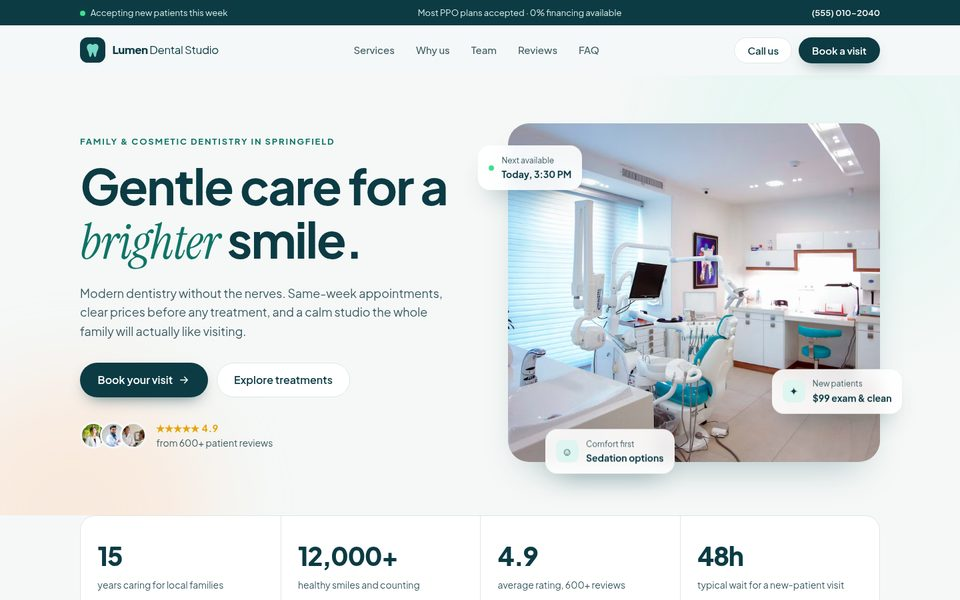
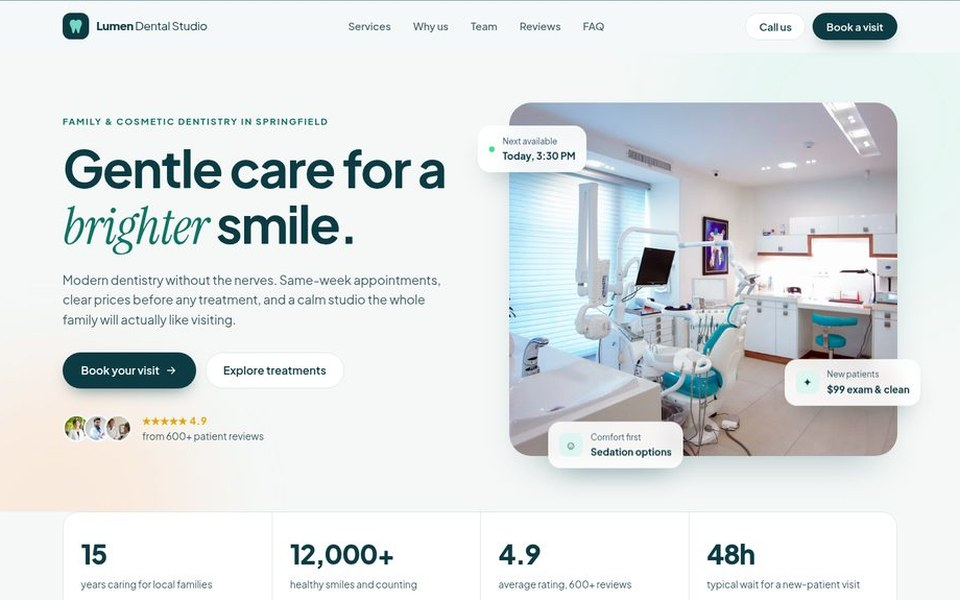
Work cards: crop announcement bars from thumbnails, drop stripe pattern behind images

diff --git a/index.html b/index.html
@@ -366,37 +366,37 @@
     <div class="fx-grid cols-3">
       <article class="reveal fx-box work-card">
         <a class="work-link" href="/work/clinic/" aria-label="Open the dental clinic concept website">
-          <div class="work-thumb"><img src="/work/thumbs/clinic.jpg" alt="Home page of Lumen Dental Studio, a concept dental clinic website" width="960" height="600" loading="lazy" decoding="async"></div>
+          <div class="work-thumb"><img src="/work/thumbs/clinic.jpg?v=2" alt="Home page of Lumen Dental Studio, a concept dental clinic website" width="960" height="600" loading="lazy" decoding="async"></div>
           <div class="work-meta"><span class="concept-tag">Concept</span><h3>Lumen Dental Studio</h3><p>Dental clinic site with online booking, treatments, team and patient reviews.</p><span class="work-cta">View live demo <span aria-hidden="true">→</span></span></div>
         </a>
       </article>
       <article class="reveal fx-box work-card">
         <a class="work-link" href="/work/restaurant/" aria-label="Open the restaurant concept website">
-          <div class="work-thumb"><img src="/work/thumbs/restaurant.jpg" alt="Home page of Ember and Vine, a concept restaurant website" width="960" height="600" loading="lazy" decoding="async"></div>
+          <div class="work-thumb"><img src="/work/thumbs/restaurant.jpg?v=2" alt="Home page of Ember and Vine, a concept restaurant website" width="960" height="600" loading="lazy" decoding="async"></div>
           <div class="work-meta"><span class="concept-tag">Concept</span><h3>Ember &amp; Vine</h3><p>Restaurant site with a tabbed menu, table reservations and a moody gallery.</p><span class="work-cta">View live demo <span aria-hidden="true">→</span></span></div>
         </a>
       </article>
       <article class="reveal fx-box work-card">
         <a class="work-link" href="/work/home-services/" aria-label="Open the home services concept website">
-          <div class="work-thumb"><img src="/work/thumbs/home-services.jpg" alt="Home page of Northpoint Home Services, a concept plumbing and HVAC website" width="960" height="600" loading="lazy" decoding="async"></div>
+          <div class="work-thumb"><img src="/work/thumbs/home-services.jpg?v=2" alt="Home page of Northpoint Home Services, a concept plumbing and HVAC website" width="960" height="600" loading="lazy" decoding="async"></div>
           <div class="work-meta"><span class="concept-tag">Concept</span><h3>Northpoint Home Services</h3><p>Plumbing and HVAC site with instant quotes, booking windows and flat-rate prices.</p><span class="work-cta">View live demo <span aria-hidden="true">→</span></span></div>
         </a>
       </article>
       <article class="reveal fx-box work-card">
         <a class="work-link" href="/work/real-estate/" aria-label="Open the real estate agency concept website">
-          <div class="work-thumb"><img src="/work/thumbs/real-estate.jpg" alt="Home page of Harbor and Oak Realty, a concept real estate website" width="960" height="600" loading="lazy" decoding="async"></div>
+          <div class="work-thumb"><img src="/work/thumbs/real-estate.jpg?v=2" alt="Home page of Harbor and Oak Realty, a concept real estate website" width="960" height="600" loading="lazy" decoding="async"></div>
           <div class="work-meta"><span class="concept-tag">Concept</span><h3>Harbor &amp; Oak Realty</h3><p>Real estate agency site with property search, filterable listings and a mortgage calculator.</p><span class="work-cta">View live demo <span aria-hidden="true">→</span></span></div>
         </a>
       </article>
       <article class="reveal fx-box work-card">
         <a class="work-link" href="/work/salon/" aria-label="Open the salon and spa concept website">
-          <div class="work-thumb"><img src="/work/thumbs/salon.jpg" alt="Home page of Velour Salon and Spa, a concept salon website" width="960" height="600" loading="lazy" decoding="async"></div>
+          <div class="work-thumb"><img src="/work/thumbs/salon.jpg?v=2" alt="Home page of Velour Salon and Spa, a concept salon website" width="960" height="600" loading="lazy" decoding="async"></div>
           <div class="work-meta"><span class="concept-tag">Concept</span><h3>Velour Salon &amp; Spa</h3><p>Salon and spa site with a priced service menu, a build-your-booking basket and stylist booking.</p><span class="work-cta">View live demo <span aria-hidden="true">→</span></span></div>
         </a>
       </article>
       <article class="reveal fx-box work-card">
         <a class="work-link" href="/work/law-firm/" aria-label="Open the law firm concept website">
-          <div class="work-thumb"><img src="/work/thumbs/law-firm.jpg" alt="Home page of Whitmore and Hale, a concept law firm website" width="960" height="600" loading="lazy" decoding="async"></div>
+          <div class="work-thumb"><img src="/work/thumbs/law-firm.jpg?v=2" alt="Home page of Whitmore and Hale, a concept law firm website" width="960" height="600" loading="lazy" decoding="async"></div>
           <div class="work-meta"><span class="concept-tag">Concept</span><h3>Whitmore &amp; Hale</h3><p>Personal injury law firm site with a free case evaluation, case results and attorney profiles.</p><span class="work-cta">View live demo <span aria-hidden="true">→</span></span></div>
         </a>
       </article>

diff --git a/fx.css b/fx.css
@@ -309,6 +309,7 @@ main .reveal > p.text-sm.font-medium.text-muted-foreground + h2 { margin-top: 1.
 .work-thumb::before { content: ""; position: absolute; inset: -20%;
   background-image: repeating-linear-gradient(45deg, rgb(23 20 31 / 0.12) 0 12px, transparent 12px 24px); transition: transform 1s var(--spring); }
 .work-card:hover .work-thumb::before { transform: translateX(34px) rotate(4deg); }
+.work-thumb:has(img)::before { display: none; }
 .work-thumb .ph { position: absolute; inset: 0; z-index: 1; display: grid; place-items: center; font: 800 12px/1.4 var(--font-display); letter-spacing: .14em; text-transform: uppercase; color: var(--ink); }
 .work-thumb .ph > div { text-align: center; background: #fff; border: var(--bw) solid var(--ink); border-radius: 16px; padding: .7rem 1.1rem; box-shadow: 4px 4px 0 var(--ink); transform: rotate(-3deg); transition: transform 500ms var(--spring); }
 .work-card:hover .work-thumb .ph > div { transform: rotate(3deg) scale(1.06); }
